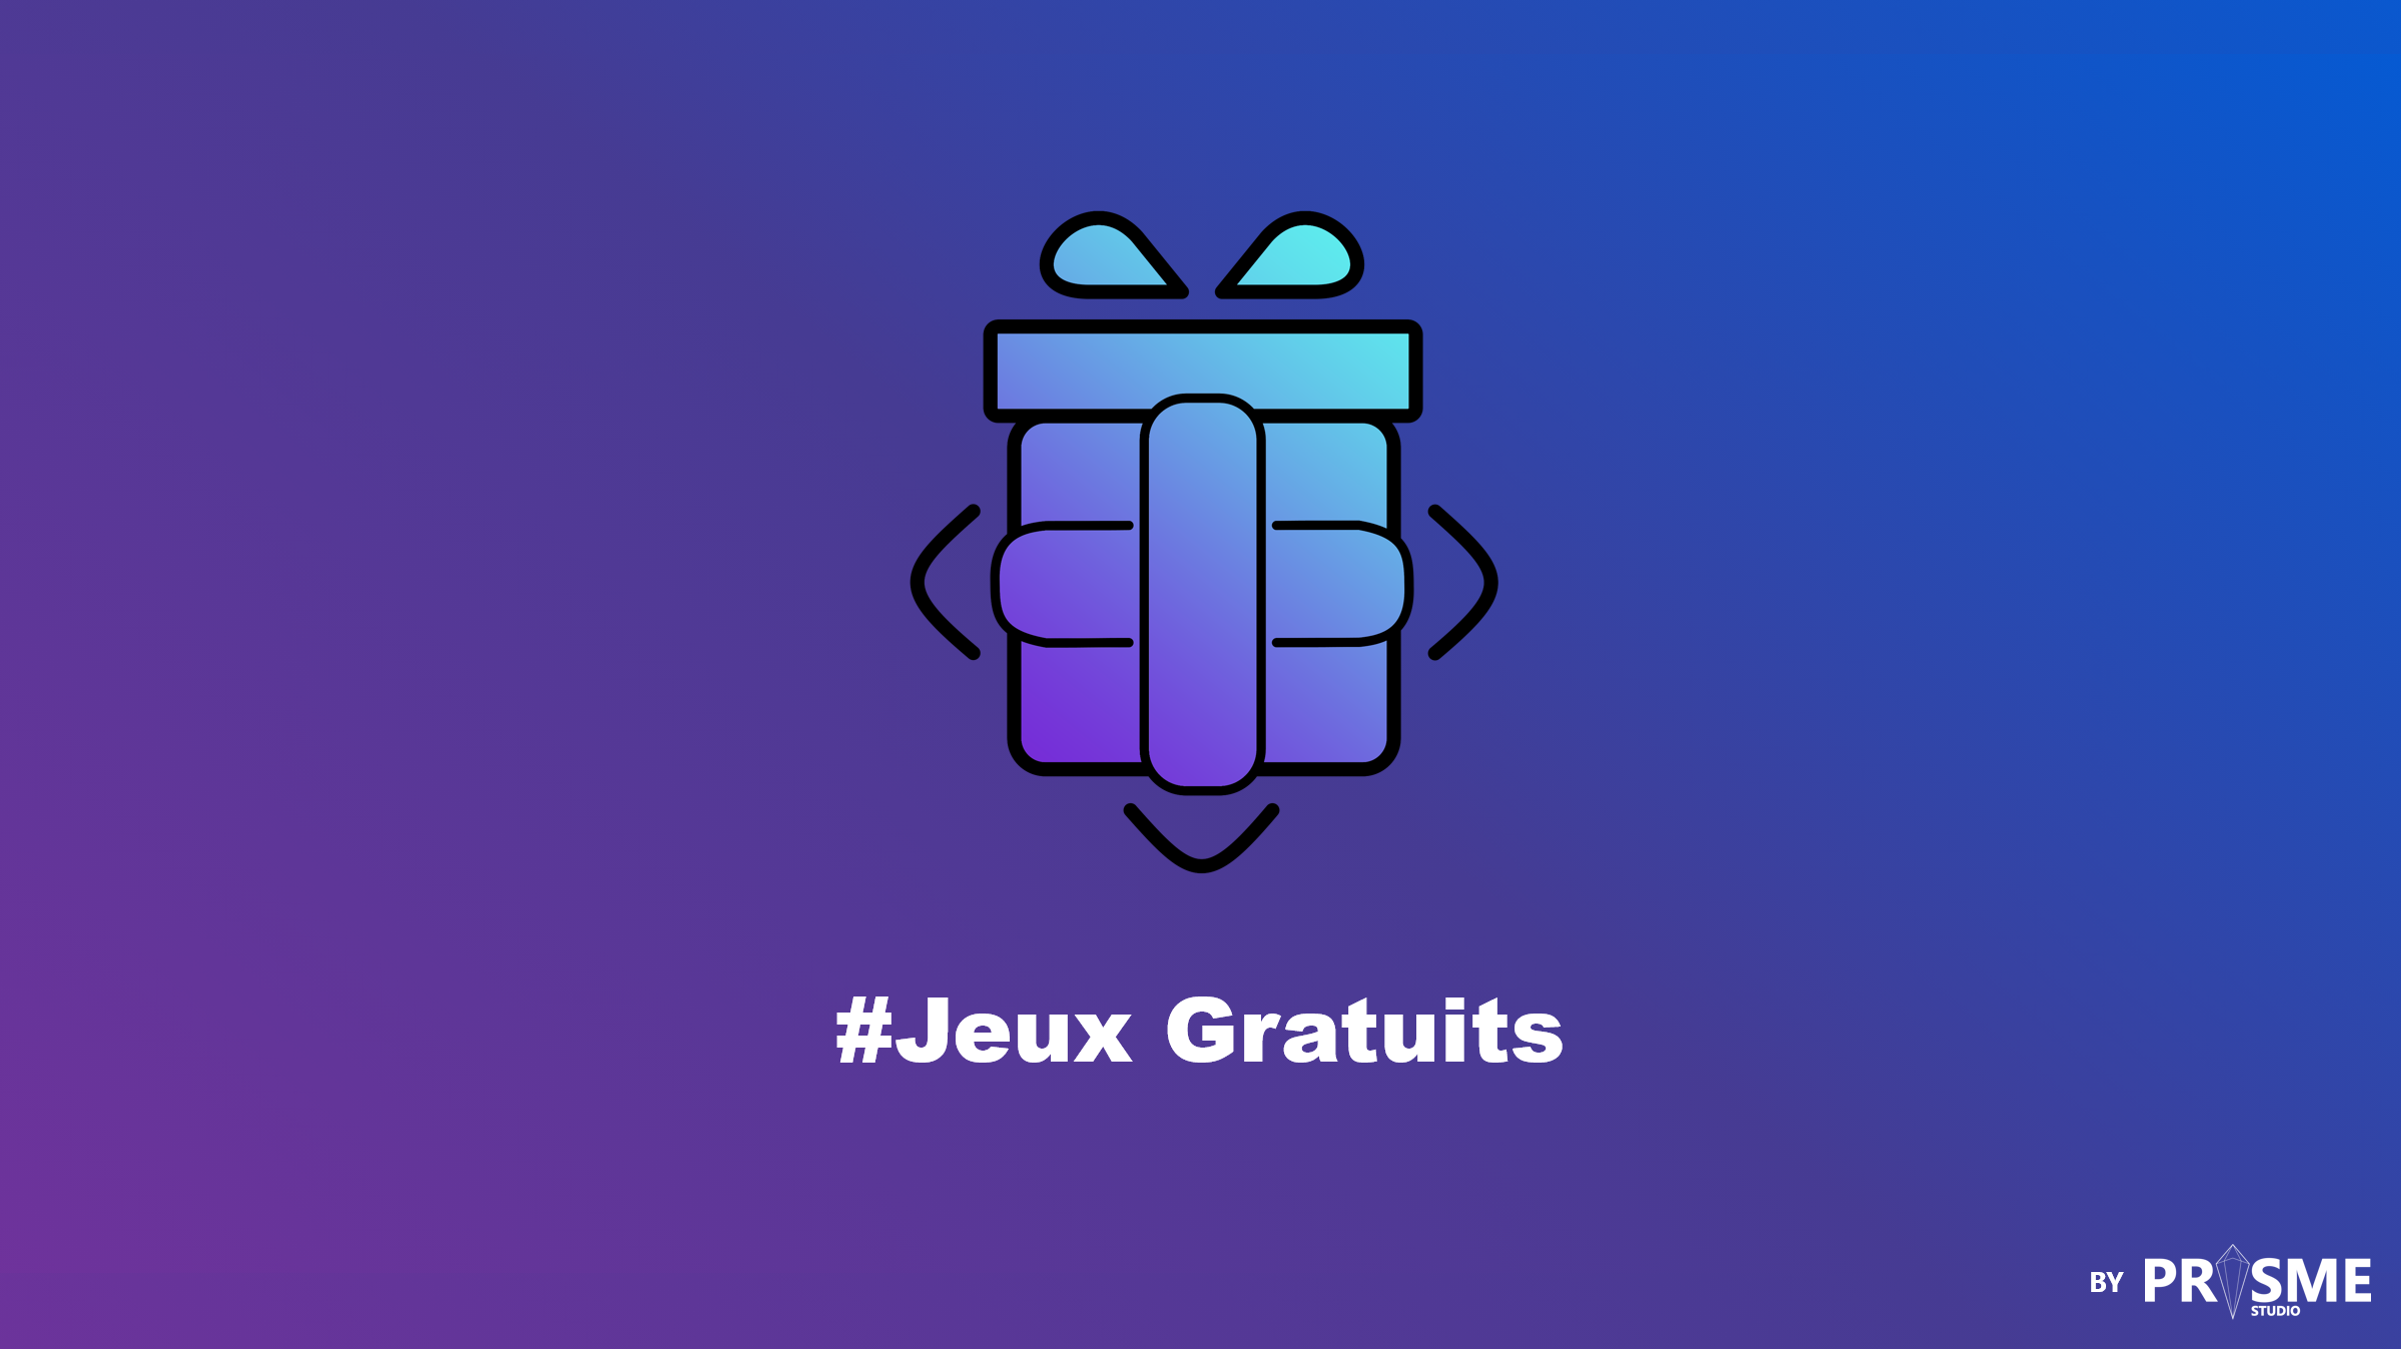
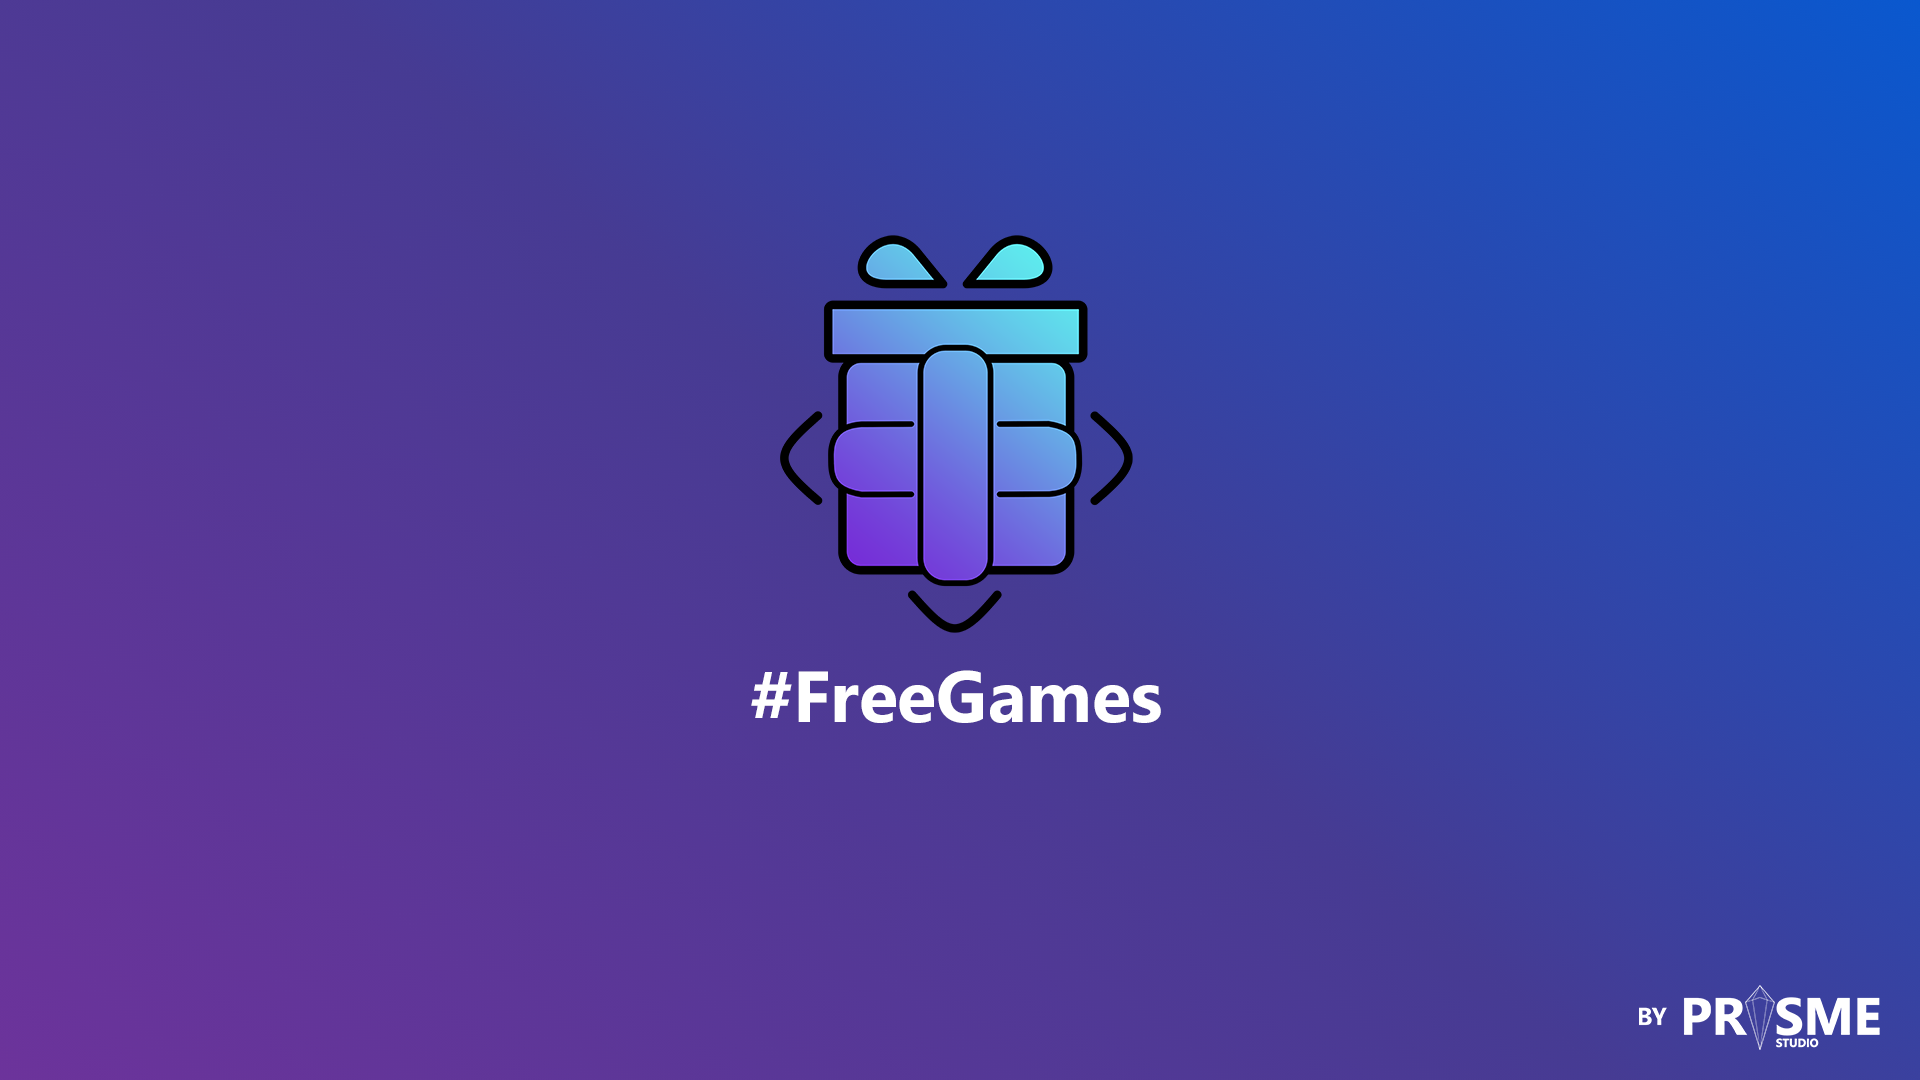
Update

Changed region(s): [[0.375, 0.1528, 0.625, 0.6722], [0.3438, 0.7333, 0.6562, 0.7944], [0.8438, 0.9167, 1.0, 0.9778]]

diff --git a/index.html b/index.html
@@ -1,18 +1,18 @@
 <!DOCTYPE HTML>
 <html>
 	<head>
-		<title>#Jeux Gratuits</title>
+		<title>#FreeGames</title>
 		<meta charset="utf-8" />
 		<meta name="viewport" content="width=device-width, initial-scale=1, user-scalable=no" />
         <meta name="author" content="PRISME Studio">
         <meta name="robots" content="index">
-        <meta name="keywords" content="#jeux gratuits, jeux gratuits, jeux, #jeux, jeux gratuits en ligne, jeux gratuits pc, jeux gratuits à télécharger, jeux gratuits amazon prime, jeux gratuits epic, jeux gratuits epic games liste, jeux gratuits epic games"/>
+        <meta name="keywords" content="#FreeGames, freegames, FreeGames, #jeux gratuits, jeux gratuits, jeux, #jeux, jeux gratuits en ligne, jeux gratuits pc, jeux gratuits à télécharger, jeux gratuits amazon prime, jeux gratuits epic, jeux gratuits epic games liste, jeux gratuits epic games"/>
         <meta name="description" content="Be aware of all the free games of the moment. Join us!"/>
-        <meta content="#Jeux Gratuits" property="og:title"/>
+        <meta content="#FreeGames" property="og:title"/>
         <meta content="Be aware of all the free games of the moment. Join us!" property="og:description"/>
         <meta content="https://prismestudio.github.io/jeuxgratuits/images/cover.png" property="og:image">
         <meta property="og:type" content="website"/>
-        <meta content="#Jeux Gratuits" property="twitter:title"/>
+        <meta content="#FreeGames" property="twitter:title"/>
         <meta content="Be aware of all the free games of the moment. Join us!" property="twitter:description"/>
         <meta content="https://prismestudio.github.io/jeuxgratuits/images/cover.png" property="twitter:image"/>
         <meta content="summary_large_image" name="twitter:card"/>
@@ -21,7 +21,6 @@
 	</head>
 	<body class="homepage is-preload">
         <div id="page-wrapper">
-            
             <!-- Header -->
 				<section id="header">
                     <nav id="nav">
@@ -30,25 +29,23 @@
 				        </ul>
 				    </nav>
                 </section>
-            
-            <div id="body">
             <!-- Header -->
+            <div id="body">
                 <section id="intro">
                     <h1><img src="images/logo.png" height="400"></h1>
-                    <h1>#Jeux Gratuits</h1>
+                    <h1>#FreeGames</h1>
                     <p><span></span></p>
                 </section>
                 <section class="content">
                     <form>
                         <select NAME="ListeUrl" onChange="ChangeUrl(this.form)">
                             <option SELECTED VALUE="">Select your language </option>
-                            <option value="https://prismestudio.github.io/en/jeuxgratuits.html">English (EN)</option>
-                            <option value="https://prismestudio.github.io/fr/jeuxgratuits.html">Français (FR)</option>
+                            <option value="https://prismestudio.github.io/en/freegames.html">English (EN)</option>
+                            <option value="https://prismestudio.github.io/fr/freegames.html">Français (FR)</option>
                         </select>
                     </form>
                 </section>
             </div>
-            
             <!-- Copyright -->
                 <section id="footer">
                     <div id="bubble">
@@ -63,8 +60,7 @@
                         </ul>
                     </div>
                 </section>
-        </div>
-        
+            </div>
         <!-- Scripts -->
 			<script src="assets/js/jquery.min.js"></script>
 			<script src="assets/js/jquery.dropotron.min.js"></script>

diff --git a/assets/css/main.css b/assets/css/main.css
@@ -106,11 +106,10 @@ input, textarea {
 	}
 
 	body {
-		background: url(https://prismestudio.github.io/images/0004.png),linear-gradient(40deg, rgba(113,50,156,1) 0%, rgba(70,59,147,1) 50%, rgba(1,92,215,1) 100%);
+		background: /*url(https://prismestudio.github.io/images/0004.png),*/linear-gradient(40deg, rgba(113,50,156,1) 0%, rgba(70,59,147,1) 50%, rgba(1,92,215,1) 100%);
         background-repeat: no-repeat;
         background-size: cover;
         background-attachment: fixed,scroll;
-        /*Christmas*/
 	}
 
 		body.is-preload *, body.is-preload *:before, body.is-preload *:after {
